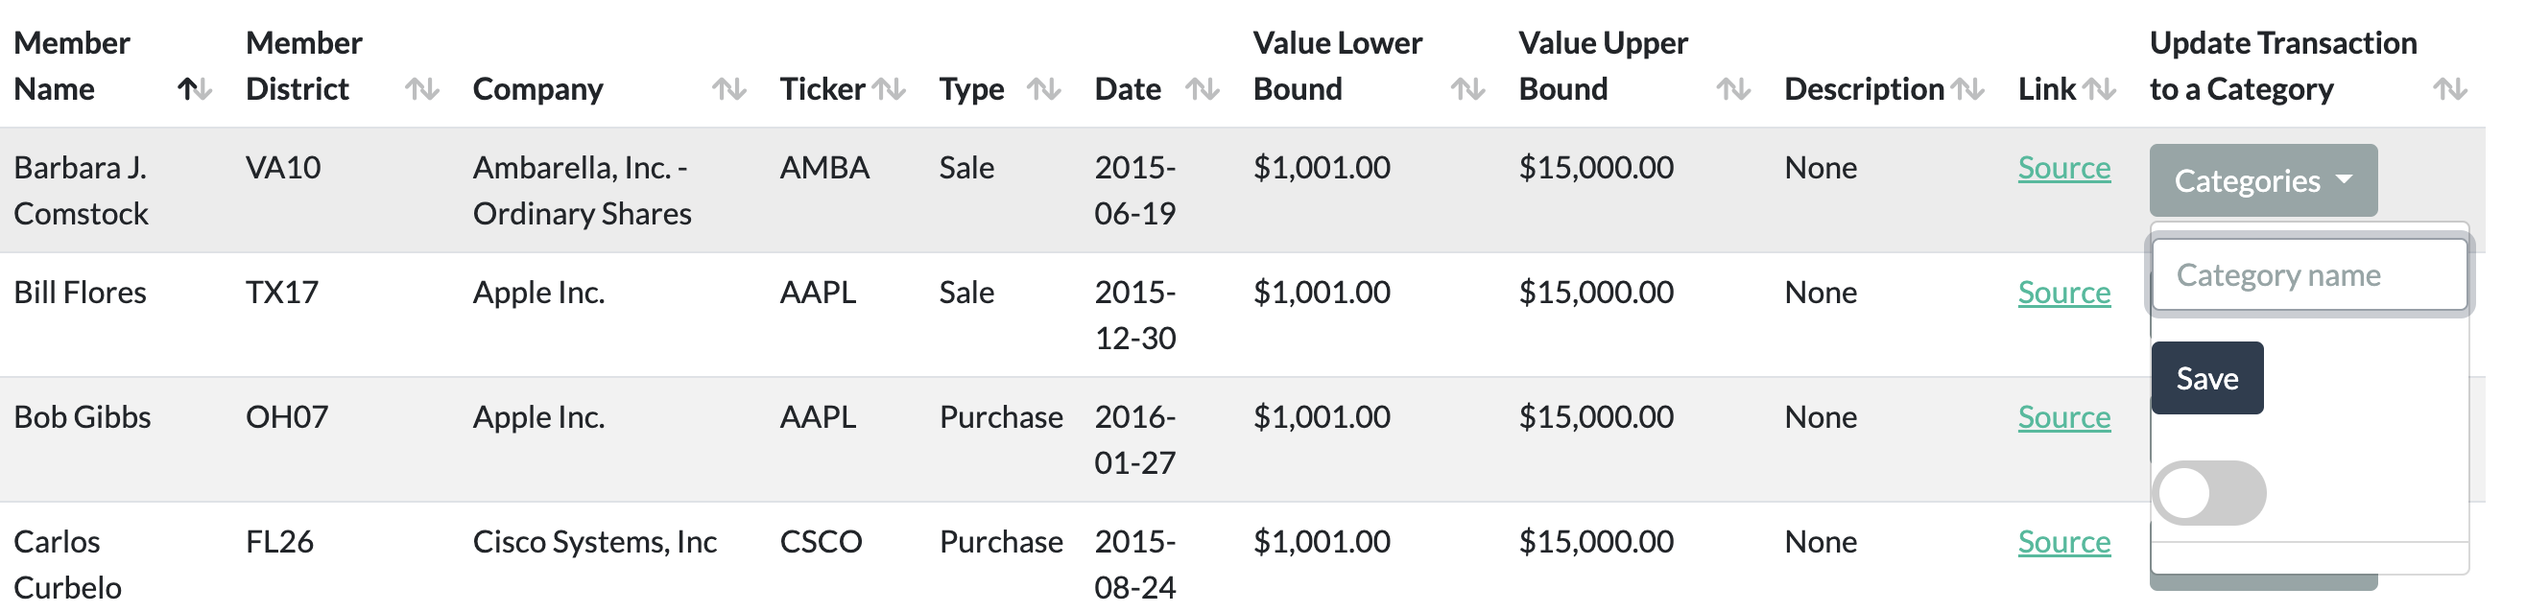
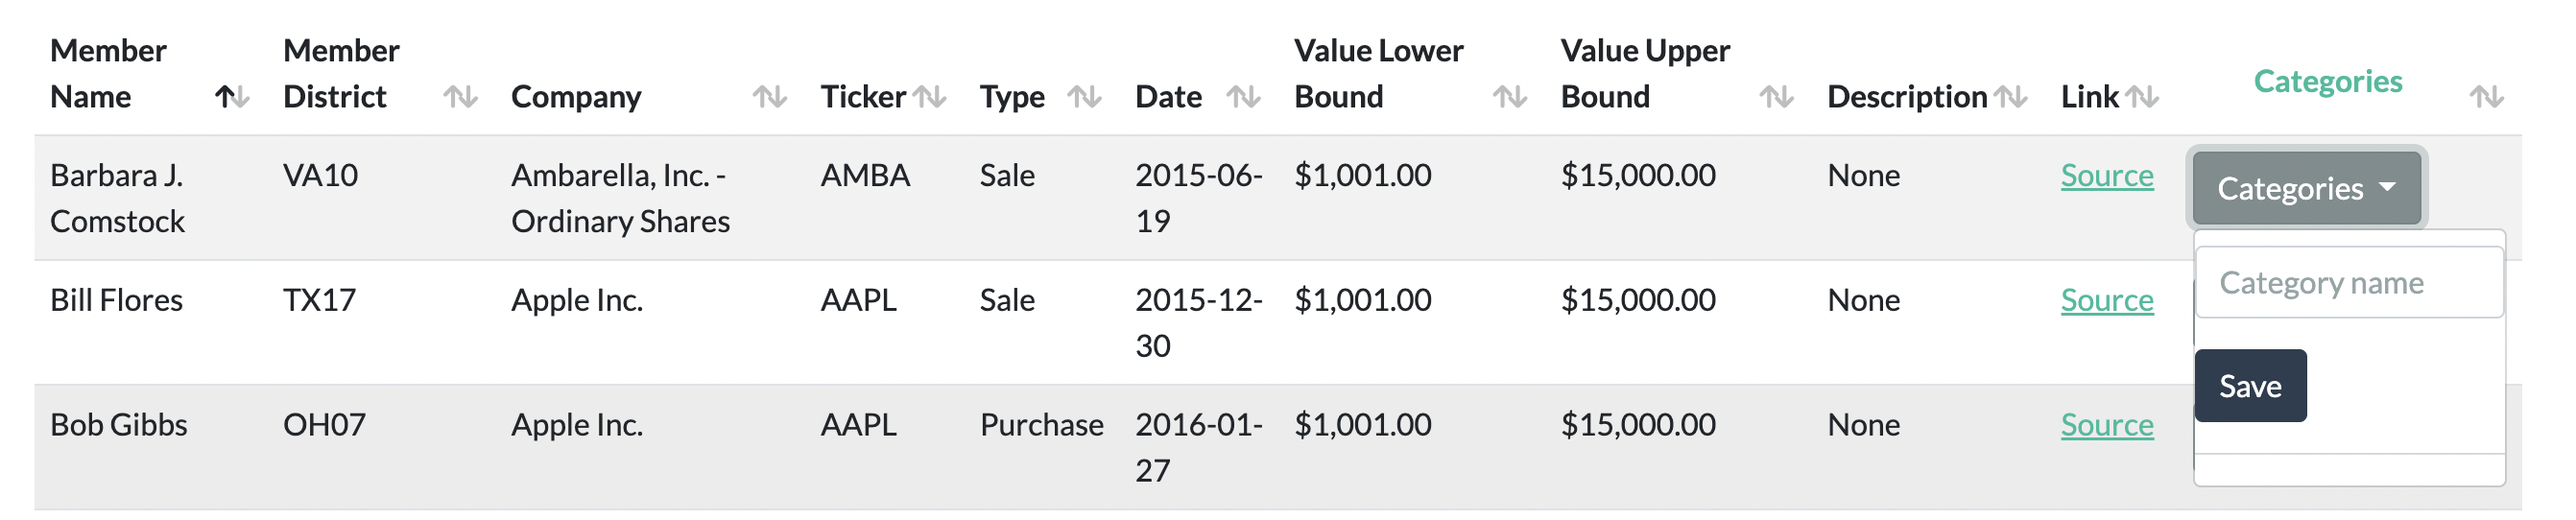
User documentation updated

diff --git a/README.md b/README.md
@@ -24,11 +24,11 @@ On the Congressional Stock Trading Monitor webpage, users can retrieve informati
 
     ![alt text](./images/transactions_page.png)
 2. Representatives page: shows list of representatives along with their aggregated purchased/sold stock data
-    * *Includes the following data for each transaction*: U.S. House of Representatives member name, trade count, transaction purchase count, transaction sale count, average transaction value, lower bound and higher bound value of the purchase range, and lower bound and higher bound value of the sale range.
+    * *Includes the following data for each representative*: U.S. House of Representatives member name, trade count, transaction purchase count, transaction sale count, average transaction value, lower bound and higher bound value of the purchase range, and lower bound and higher bound value of the sale range.
 
     ![alt text](./images/representatives_page.png)
 3. Companies page: shows list of companies along with their aggregated purchased/sold data
-    * *Includes the following data for each transaction*: Company, ticker, transaction count, count of members having transactions with this company, lower bound and higher bound value of the purchase range, and lower bound and higher bound value of the sale range.
+    * *Includes the following data for each company*: Company, ticker, transaction count, count of members having transactions with this company, lower bound and higher bound value of the purchase range, and lower bound and higher bound value of the sale range.
 
     ![alt text](./images/companies_page.png)
 
@@ -42,18 +42,25 @@ On the Congressional Stock Trading Monitor webpage, users can retrieve informati
 * Search through the list of transactions (accepts partial searches and is case insensitive)
 * Pick to show different number of entries on the page (ex.10, 25, 50, 100). Clicking on the next/previous buttons lets you go to different pages of entries.
 * The entries in the table can be sorted by each column by clicking the column name (the corresponding arrow to the right of the column name shows the direction of the sort)
-* On the transaction page, the *Update Transactions to a Category* column saves the current transaction to a category through a cookie. *In future updates, the these transactions that were saved to a category will be displayed on its own page for the user.*
+* On the transaction page, the *Update Transactions to a Category* column saves the current transaction to a category through a cookie. *In future updates, the transactions that were saved to a category will be displayed on its own page for the user.*
     * Click the "Category" button for a transaction, and type in the name of the category you want to save the transaction to.
 
     ![alt text](./images/add_category.png)
     
-    * Clicking the toggle will change whether the user will add the transaction to the category or delete the transaction from the category.
 
-    * Click the button *Save*/*Delete* to save the changes in a cookie. An alert will show on the page to indicate the cookie has been updated.
+    * Click the *Save* button to save the changes to a cookie. An alert will show on the page to indicate the cookie has been updated to save the transaction to a category.
 
     ![alt text](./images/add_category_alert.png)
 
-* Highlighted column names are hoverable to show a tooltip giving more information about what the column represents. *In future updates, tooltips will be updated for more columns. The tooltips are currently shown in the Companies page*
+    * After refreshing the page, you can see categories at the bottom that you have previously saved transactions to.
+
+    ![alt text](./images/list_previous_categories.png)
+
+    * Clicking on a category button at the bottom will add or delete the current transaction from that category (the category button acts as a toggle button).
+
+    ![alt text](./images/delete_transaction.png)
+
+* Highlighted column names are hoverable to show a tooltip giving more information about what the column represents. *The tooltips are currently shown in the Companies and Representatives page*
 ![alt text](./images/tooltip.png)
 
 ## Developer Documentation
